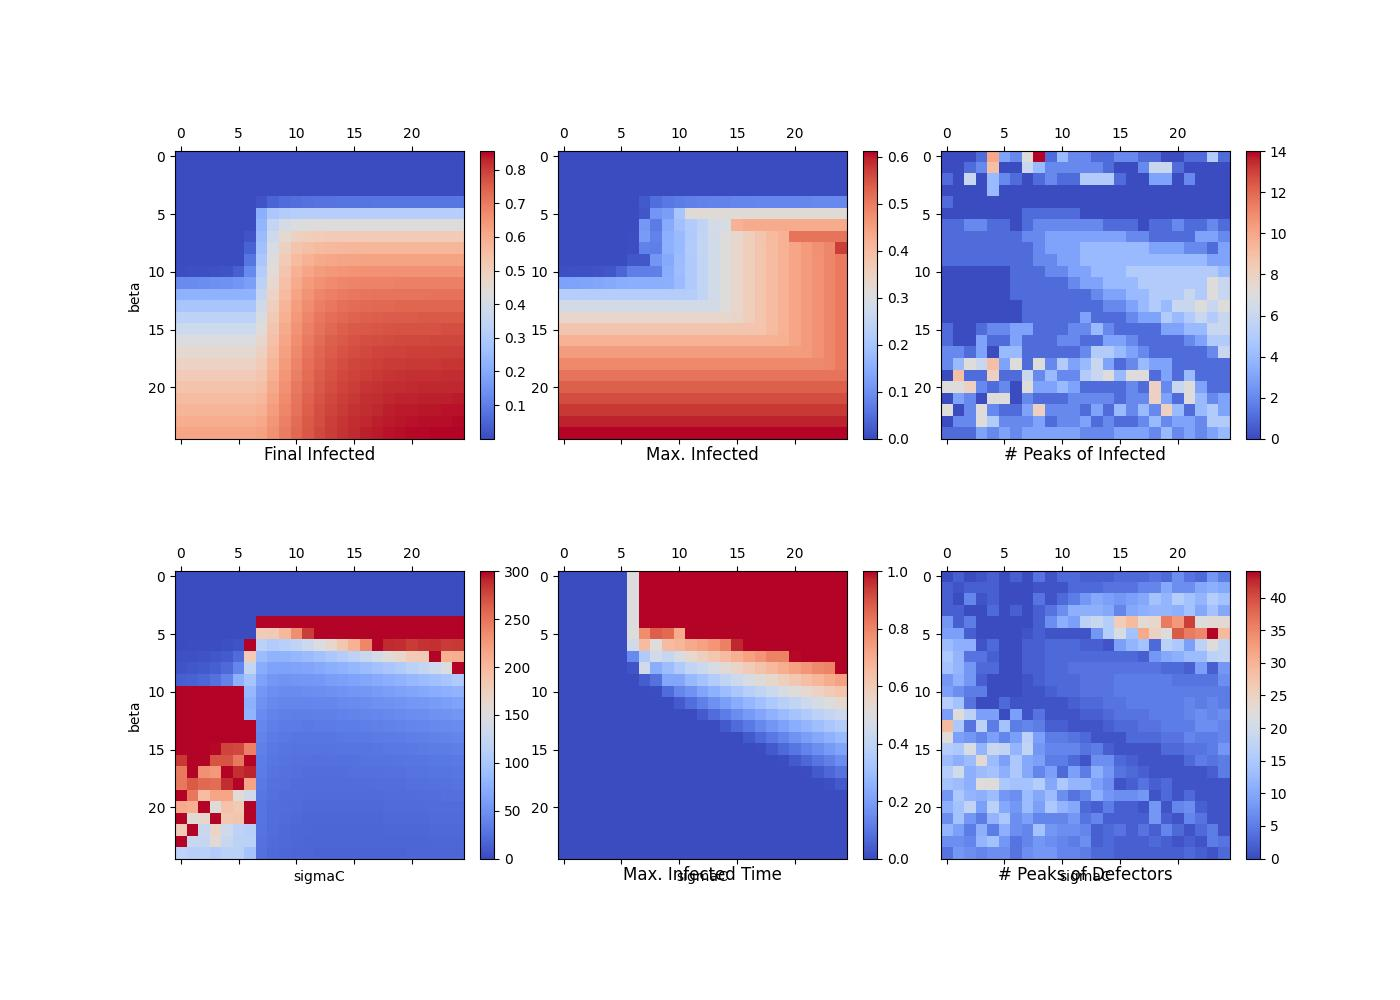
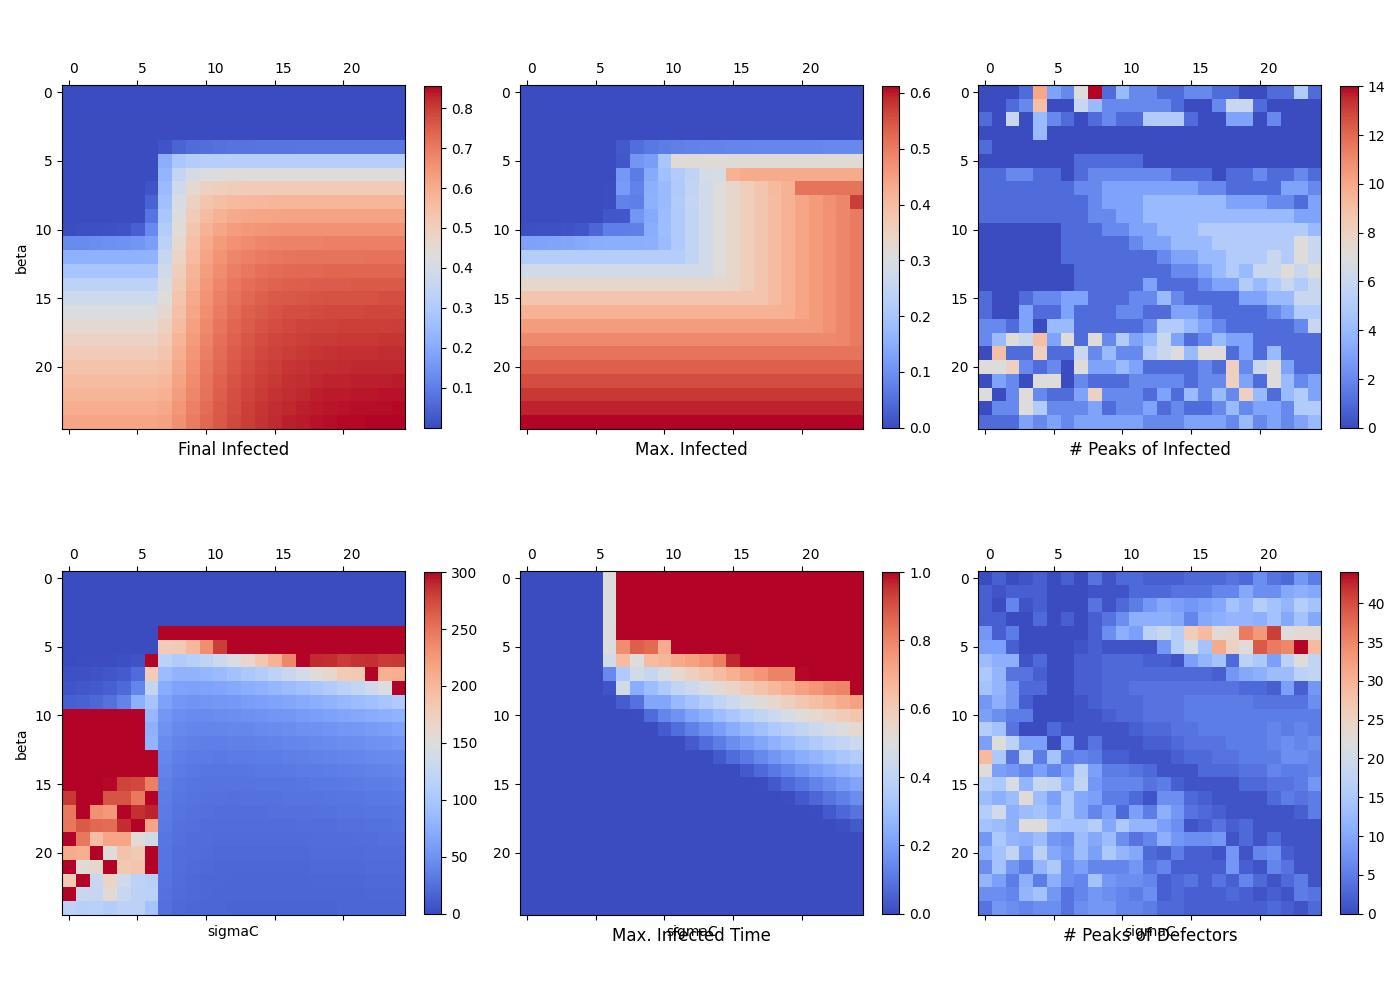
fix 2D plots

diff --git a/plots/plot_ODE_dynamics.py b/plots/plot_ODE_dynamics.py
@@ -122,6 +122,7 @@ def graph_2D_experimentation(param_search1, param_search2, param_name1: str, par
     #axes[0,0].set_yticklabels(param_ticks1)
     axes[0,0].set_title('Final Infected', y=-0.1)
     axes[0,0].set_ylabel(f'{param_name1}')
+    plt.setp(axes[0,0].get_xticklabels(), ha='left')
     plt.colorbar(im1, fraction=0.045, pad=0.05, ax=axes[0,0])
 
     #axes[1,0].set_xticks(range(len(param_ticks2)))
@@ -131,6 +132,7 @@ def graph_2D_experimentation(param_search1, param_search2, param_name1: str, par
     #axes[1,0].set_title('Final Defectors', y=-0.1)
     axes[1,0].set_ylabel(f'{param_name1}')
     axes[1,0].set_xlabel(f'{param_name2}')
+    plt.setp(axes[1,0].get_xticklabels(), ha='left')
     plt.colorbar(im2, fraction=0.045, pad=0.05, ax=axes[1,0])
     
     #axes[0,1].set_xticks(range(len(param_ticks2)))
@@ -138,6 +140,7 @@ def graph_2D_experimentation(param_search1, param_search2, param_name1: str, par
     #axes[0,1].set_xticklabels(param_ticks2)
     #axes[0,1].set_yticklabels(param_ticks1)
     axes[0,1].set_title('Max. Infected', y=-0.1)
+    plt.setp(axes[0,1].get_xticklabels(), ha='left')
     plt.colorbar(im3, fraction=0.045, pad=0.05, ax=axes[0,1])
 
     #axes[1,1].set_xticks(range(len(param_ticks2)))
@@ -146,6 +149,7 @@ def graph_2D_experimentation(param_search1, param_search2, param_name1: str, par
     #axes[1,1].set_yticklabels(param_ticks1)
     axes[1,1].set_title('Max. Infected Time', y=-0.1)
     axes[1,1].set_xlabel(f'{param_name2}')
+    plt.setp(axes[1,1].get_xticklabels(), ha='left')
     plt.colorbar(im4, fraction=0.045, pad=0.05, ax=axes[1,1])
 
     #axes[0,2].set_xticks(range(len(param_ticks2)))
@@ -153,6 +157,7 @@ def graph_2D_experimentation(param_search1, param_search2, param_name1: str, par
     #axes[0,2].set_xticklabels(param_ticks2)
     #axes[0,2].set_yticklabels(param_ticks1)
     axes[0,2].set_title('# Peaks of Infected', y=-0.1)
+    plt.setp(axes[0,2].get_xticklabels(), ha='left')
     plt.colorbar(im5, fraction=0.045, pad=0.05, ax=axes[0,2])
 
     #axes[1,2].set_xticks(range(len(param_ticks2)))
@@ -161,11 +166,15 @@ def graph_2D_experimentation(param_search1, param_search2, param_name1: str, par
     #axes[1,2].set_yticklabels(param_ticks1)
     axes[1,2].set_title('# Peaks of Defectors', y=-0.1)
     axes[1,2].set_xlabel(f'{param_name2}')
+    plt.setp(axes[1,2].get_xticklabels(), ha='left')
     plt.colorbar(im6, fraction=0.045, pad=0.05, ax=axes[1,2])
+
+    fig.tight_layout()
 
     if not os.path.isdir( os.path.join(results_path, plots_path, '2D') ):
                 os.makedirs(os.path.join(results_path, plots_path, '2D'))
     
+
     plt.savefig(os.path.join(results_path, plots_path, '2D','heatmap_features_{}_{}_exp.jpeg'.format(param_name1,param_name2)))
     plt.close()
 
